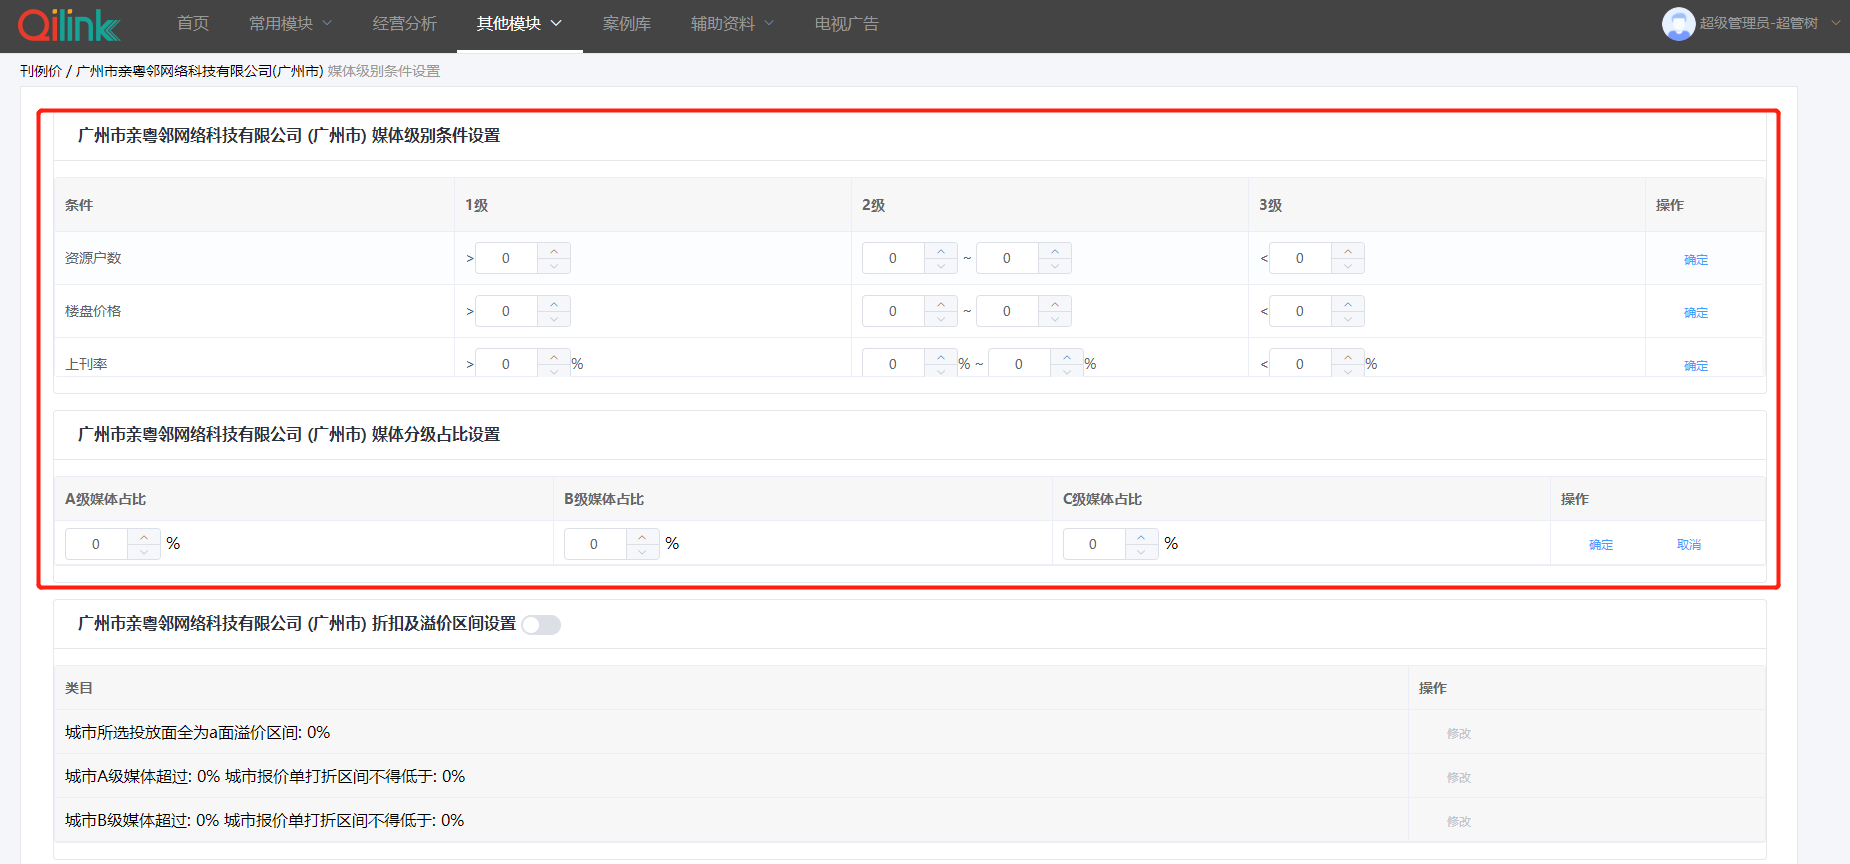
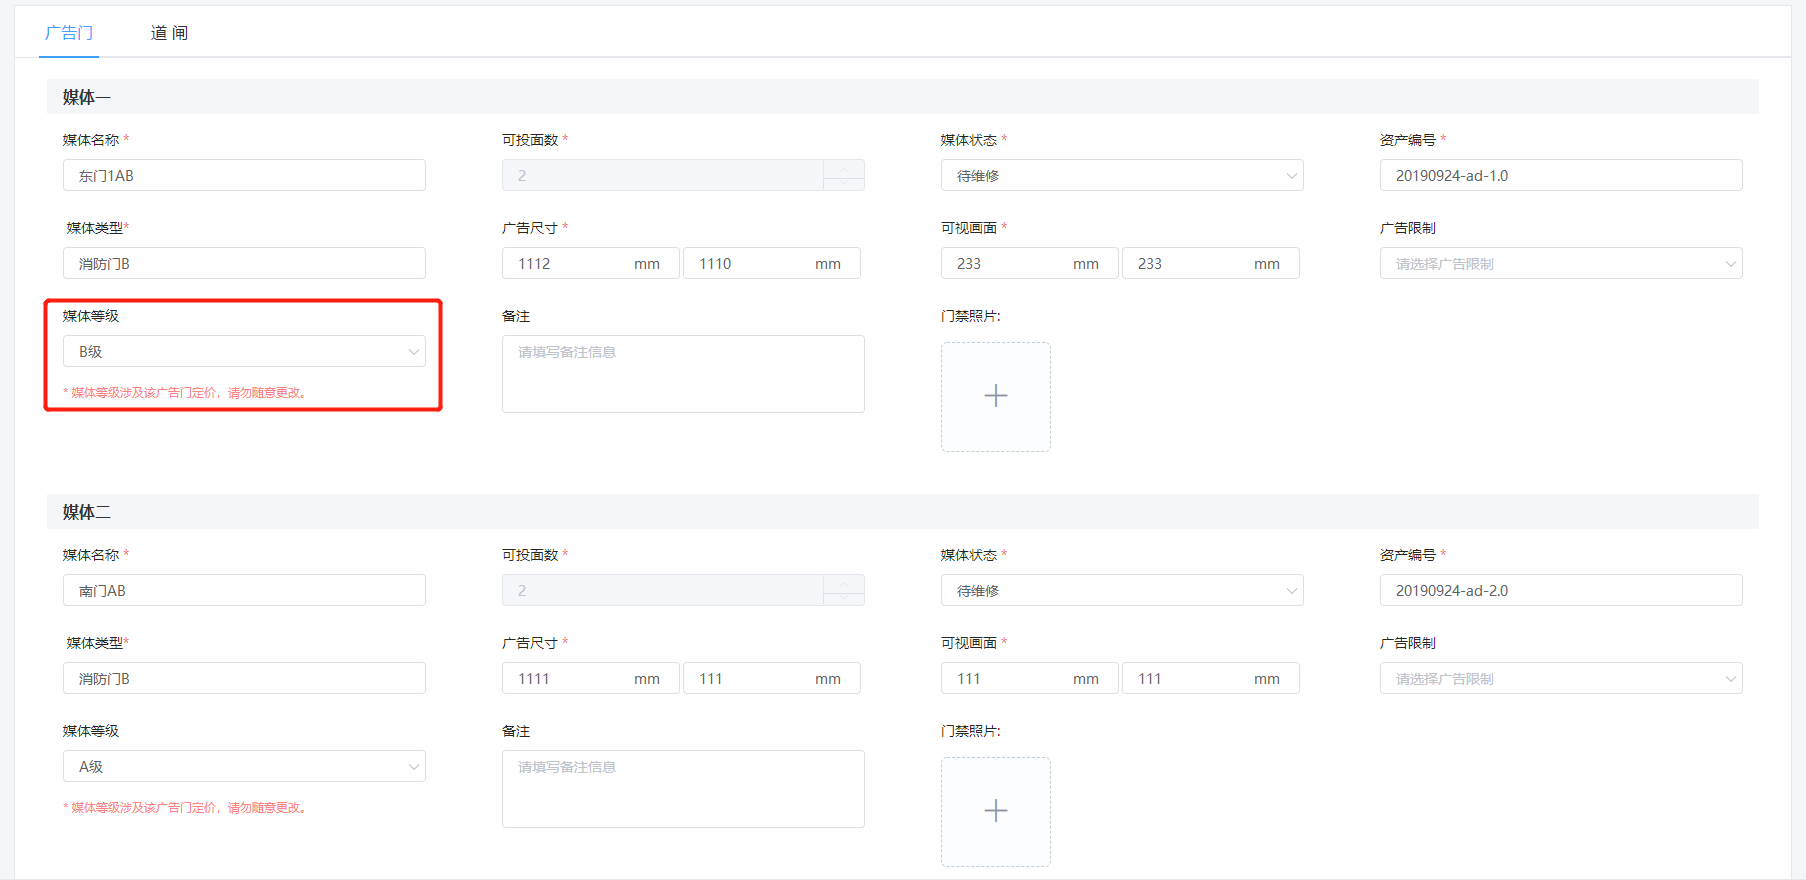
优化

diff --git a/src/components/common/components/materialInfo.vue b/src/components/common/components/materialInfo.vue
@@ -100,7 +100,7 @@
             <div class="car-title">
                 <i class="el-icon-info" style="color: #1890FF;margin-right: 5px"></i>
                 <h4>
-                    已保存物料信息的点位数量有<span>{{hasMaterialCount}}</span> 个 当前选择的点位<span>{{selectNum}}</span>个
+                    已保存物料信息的点位数量有<span>{{hasMaterialCount}}</span> 个 当前选择的点位<span>{{selectList.length}}</span>个
                 </h4>
             </div>
             <el-table :data="materInfoArr" border height="535" ref="multipleTable" v-loading="materloading"
@@ -351,7 +351,7 @@
                     remark: '',
                 },//当前行
                 MaterDetailModal: false,
-                selectNum:0,//勾选的个数
+                // selectNum:0,//勾选的个数
                 hasMaterialCount:0,//已备注的数量
             }
         },
@@ -409,7 +409,7 @@
                 this.currInfoPage = 1;
                 this.materInfoArr = [];
                 this.mapArr = [];
-                this.selectNum = 0
+                // this.selectNum = 0
                 this.selectList = []
                 this.searchInfoFun();
                 this.getMapCenter();
@@ -607,7 +607,7 @@
                         if (data.asID == item.asID && data.lStar == item.lStar && data.lEnd == item.lEnd) {
                             data.imgUrl = item.imgUrl;
                             data.uploadUser = this.sessionData.uID;
-                            this.selectNum=0
+                            // this.selectNum=0
                             this.$refs.multipleTable.toggleRowSelection(data, false);
                             break;
                         }
@@ -623,7 +623,7 @@
                 if (this.isHaveFun(selection, row)) {
                     for (let data of selection) {
                         if (!this.isHaveFun(this.selectList, data)) {
-                            this.selectNum++
+                            // this.selectNum++
                             this.selectList.push(data);
                         }
                         if (!this.isHaveFun(this.shoplist, data)) {
@@ -636,7 +636,7 @@
                     if (this.isHaveFun(this.selectList, row)) {
                         this.selectList = this.selectList.filter((item) => {
                             if (row.asID == item.asID && row.lStar == item.lStar && row.lEnd == item.lEnd) {
-                                this.selectNum--
+                                // this.selectNum--
                                 return false;
                             }
                             return true;
@@ -660,7 +660,7 @@
                 if (selection.length) {
                     for (let data of selection) {
                         if (!this.isHaveFun(this.selectList, data)) {
-                            this.selectNum++
+                            // this.selectNum++
                             this.selectList.push(data);
                         }
                         if (!this.isHaveFun(this.shoplist, data)) {
@@ -671,8 +671,8 @@
                     for (let data of this.materInfoArr) {
                         if (this.isHaveFun(this.selectList, data)) {
                             this.selectList = this.selectList.filter((item) => {
-                                if (item.lID == data.lID) {
-                                    this.selectNum--
+                                if (data.asID == item.asID && data.lStar == item.lStar && data.lEnd == item.lEnd) {
+                                    // this.selectNum--
                                     return false;
                                 }
                                 return true;
@@ -695,23 +695,26 @@
             // 是否勾选更新
             SelectioUpdate() {
                 console.log(this.selectList,this.shoplist);
-                for (let item of this.selectList) {
-                    for (let data of this.materInfoArr) {
-                        if (data.lID == item.lID) {
-                            this.$refs.multipleTable.toggleRowSelection(data, true);
+                let timer = setTimeout(() => {
+                    for (let item of this.selectList) {
+                        for (let data of this.materInfoArr) {
+                            if (data.asID == item.asID && data.lStar == item.lStar && data.lEnd == item.lEnd) {
+                                // console.log(data);
+                                this.$refs.multipleTable.toggleRowSelection(data, true);
+                            }
                         }
                     }
-                }
-                for (let item of this.shoplist) {
-                    for (let data of this.materInfoArr) {
-                        if (data.lID == item.lID) {
-                            console.log(data);
-                            data.remark = item.remark;
-                            data.imgUrl = item.imgUrl;
-                            data.replaceDate = item.replaceDate;
+                    for (let item of this.shoplist) {
+                        for (let data of this.materInfoArr) {
+                            if (data.asID == item.asID && data.lStar == item.lStar && data.lEnd == item.lEnd) {
+                                data.remark = item.remark;
+                                data.imgUrl = item.imgUrl;
+                                data.replaceDate = item.replaceDate;
+                            }
                         }
                     }
-                }
+                    clearTimeout(timer);
+                },0)
             },
             // 保存备注
             saveAllRemark() {
@@ -724,7 +727,7 @@
                     for (let item of this.shoplist) {
                         if (data.asID == item.asID && data.lStar == item.lStar && data.lEnd == item.lEnd) {
                             data.remark = item.remark;
-                            this.selectNum=0
+                            // this.selectNum=0
                             //取消选中
                             this.$refs.multipleTable.toggleRowSelection(data, false);
                         }
@@ -756,7 +759,7 @@
                                 if (data.asID == item.asID && data.lStar == item.lStar && data.lEnd == item.lEnd) {
                                     data.imgUrl = '';
                                     data.remark = '';
-                                    this.selectNum=0
+                                    // this.selectNum=0
                                     //取消选中
                                     this.$refs.multipleTable.toggleRowSelection(data, false);
                                     break;
@@ -775,6 +778,7 @@
                             if (data.asID == this.MaterDetailInfo.asID && data.lStar == this.MaterDetailInfo.lStar && data.lEnd == this.MaterDetailInfo.lEnd) {
                                 data.imgUrl = '';
                                 data.remark = '';
+                                // this.selectNum--
                                 this.$refs.multipleTable.toggleRowSelection(data, false);
                                 this.MaterDetailModal = false
                                 break;
@@ -797,7 +801,18 @@
                         if (data.asID == this.MaterDetailInfo.asID && data.lStar == this.MaterDetailInfo.lStar && data.lEnd == this.MaterDetailInfo.lEnd) {
                             data.imgUrl = this.MaterDetailInfo.picUrl;
                             data.remark = this.MaterDetailInfo.remark;
+                            // this.selectNum--
+
                             this.$refs.multipleTable.toggleRowSelection(data, false);
+                            if (this.isHaveFun(this.selectList, data)) {
+                                this.selectList = this.selectList.filter((item) => {
+                                    if (data.asID == item.asID && data.lStar == item.lStar && data.lEnd == item.lEnd) {
+                                        // this.selectNum--
+                                        return false;
+                                    }
+                                    return true;
+                                });
+                            }
                             break;
                         }
                     }

diff --git a/src/components/common/components/changePic.vue b/src/components/common/components/changePic.vue
@@ -223,7 +223,7 @@
                 <h4>
                     <span>全部点位共<em>{{ pointInfo.pointNum }}</em>个，</span>
                     <span v-if="pointInfo.setedNum>0">已保存换画点位<em>{{ pointInfo.setedNum }}</em>个，</span>
-                    <span>当前选择的点位<em>{{selectNum}}</em>个</span>
+                    <span>当前选择的点位<em>{{selectList.length||0}}</em>个</span>
                 </h4>
             </div>
 
@@ -602,7 +602,7 @@
                 changePicDetailModal: false,
                 changePicDetailInfo: '',
                 isShowChanggPicForm: false,
-                selectNum:0,//当前选择的点位
+                // selectNum:0,//当前选择的点位
             };
         },
         mounted() {
@@ -1239,7 +1239,7 @@
                             this.shoplist.push(data);
                         }
                         if (!this.isHaveFun(this.selectList, data)) {
-                            this.selectNum++
+                            // this.selectNum++
                             this.selectList.push(data);
                         }
                     }
@@ -1253,7 +1253,7 @@
                             return true;
                         });
                         this.selectList = this.selectList.filter((item) => {
-                            this.selectNum--
+                            // this.selectNum--
                             if (item.lID == row.lID) {
                                 return false;
                             }
@@ -1272,7 +1272,7 @@
                             this.shoplist.push(data);
                         }
                         if (!this.isHaveFun(this.selectList, data)) {
-                            this.selectNum++
+                            // this.selectNum++
                             this.selectList.push(data);
                         }
                     }
@@ -1289,7 +1289,7 @@
                         if (this.isHaveFun(this.selectList, data)) {
                             this.selectList = this.selectList.filter((item) => {
                                 if (item.lID == data.lID) {
-                                    this.selectNum--
+                                    // this.selectNum--
                                     return false;
                                 }
                                 return true;
@@ -1322,8 +1322,18 @@
                                 data.remark = this.changePicDetailInfo.remark;
                                 data.picUrl = this.changePicDetailInfo.picUrl;
                                 data.replaceDate = this.changePicDetailInfo.replaceDate;
+                                // this.selectNum--
                                 this.$refs.multipleTable.toggleRowSelection(data, false);
+                                if (this.isHaveFun(this.selectList, data)) {
+                                    this.selectList = this.selectList.filter((item) => {
+                                        if (item.lID == data.lID) {
+                                            return false;
+                                        }
+                                        return true;
+                                    });
+                                }
                             }
+
                         }
                         clearTimeout(timer);
                     }, 0);
@@ -1488,7 +1498,7 @@
                 this.imgUrl = [resImg];
                 console.log(this.imgUrl);
             },
-            // 保存上传图片
+            // 保存换画信息
             confirmChange(type) {
                 if (type == 'all') {
                     let {date, url, remark} = this.allEditInfo;
@@ -1504,11 +1514,12 @@
                                 if (data.asID == item.asID && data.lStar == item.lStar && data.lEnd == item.lEnd) {
                                     data.remark = item.remark;
                                     //取消选中
+                                    // this.selectNum--
                                     this.$refs.multipleTable.toggleRowSelection(data, false);
                                 }
                             }
                         }
-                        this.selectNum = 0
+                        // this.selectNum = 0
                         this.selectList = [];
                         this.updateData(type);
                     } else {
@@ -1572,7 +1583,7 @@
                 this.isShowPic = false;
                 this.shoplist = [];
                 this.selectList = [];
-                this.selectNum = 0;
+                // this.selectNum = 0;
                 this.search();
             }
             ,

diff --git a/src/components/common/questionAndAnswer.vue b/src/components/common/questionAndAnswer.vue
@@ -37,7 +37,7 @@
                 </div>
             </el-aside>
             <el-main>
-                <div class="scroll">
+                <div class="scroll" style="height: 100%">
                     <keep-alive>
                         <!--<component :is="comName" ></component>-->
                         <question-list :mainInfo="mainInfo" @callbackAnswer="handleAnswer"
@@ -233,7 +233,7 @@
         background: #ffffff;
         color: #333;
         text-align: left;
-        padding: 16px 0;
+        padding: 32px 0;
         box-sizing: border-box;
         border-right: 1px solid #e5e6e9;
         padding-right: 6px;
@@ -245,7 +245,7 @@
 
     /*!*滚动条*!*/
     .scroll {
-        height: 100%;
+        height: 95%;
         overflow-y: scroll;
     }
 

diff --git a/src/components/superOperate/superOperateCommon.vue b/src/components/superOperate/superOperateCommon.vue
@@ -35,7 +35,7 @@
             <!--<el-menu-item index="/superOperate/ADqinlinzk" v-if="showQinlin">智邻数图</el-menu-item>-->
             <el-submenu index="7" :show-timeout="80">
                 <template slot="title">辅助资料</template>
-                <el-menu-item index="/superOperate/questionAndAnswer">常见问题</el-menu-item>
+                <!--<el-menu-item index="/superOperate/questionAndAnswer">常见问题</el-menu-item>-->
                 <el-menu-item index="/superOperate/compact">文件下载</el-menu-item>
             </el-submenu>
             <el-menu-item index="/superOperate/tvOrderList">电视广告</el-menu-item>

diff --git a/src/components/sale/saleCommon.vue b/src/components/sale/saleCommon.vue
@@ -25,7 +25,7 @@
                     辅助资料
                 </template>
                 <el-menu-item index="/sale/publishPriceList">刊例价</el-menu-item>
-                <el-menu-item index="/sale/questionAndAnswer">常见问题</el-menu-item>
+                <!--<el-menu-item index="/sale/questionAndAnswer">常见问题</el-menu-item>-->
                 <el-menu-item index="/sale/compact">文件下载</el-menu-item>
             </el-submenu>
             <el-menu-item index="/sale/tvOrderList">电视广告</el-menu-item>

diff --git a/src/components/media/mediaCommon.vue b/src/components/media/mediaCommon.vue
@@ -30,7 +30,7 @@
                 <template slot="title">
                     辅助资料
                 </template>
-                <el-menu-item index="/media/questionAndAnswer">常见问题</el-menu-item>
+                <!--<el-menu-item index="/media/questionAndAnswer">常见问题</el-menu-item>-->
                 <el-menu-item index="/media/compact">文件下载</el-menu-item>
             </el-submenu>
             <!--<el-menu-item index="/media/communityPortrait" v-show="showQinlin">亲邻智邻</el-menu-item>-->

diff --git a/src/components/operate/operateCommon.vue b/src/components/operate/operateCommon.vue
@@ -26,7 +26,7 @@
                 <template slot="title">
                     辅助资料
                 </template>
-                <el-menu-item index="/operate/questionAndAnswer">常见问题</el-menu-item>
+                <!--<el-menu-item index="/operate/questionAndAnswer">常见问题</el-menu-item>-->
                 <el-menu-item index="/operate/compact">文件下载</el-menu-item>
             </el-submenu>
             <el-submenu index="7" :show-timeout="80" v-show="showQinlin">

diff --git a/src/components/common/components/questionList.vue b/src/components/common/components/questionList.vue
@@ -29,7 +29,7 @@
 
 <style scoped>
     .question-list{
-        padding: 32px;
+        padding: 0 32px;
     }
     .question-list h5{
         color:rgba(0,0,0,0.85);
